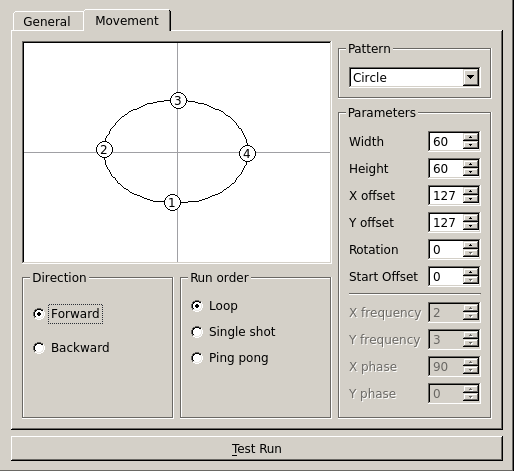
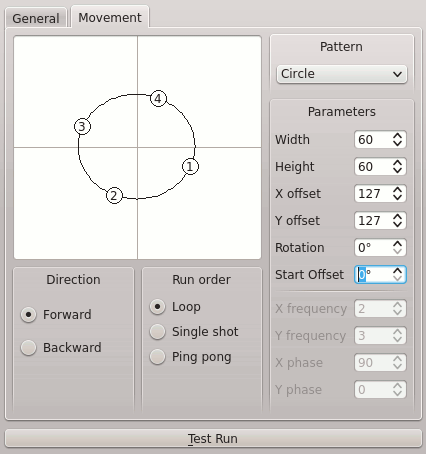
Docs: changed images installation path
Renewed EFX images with a modern look
Browser documentation font set to Arial
Q&A placed in a table

Changed region(s): [[0.0, 0.0, 1.0, 1.0], [0.2136, 0.37, 0.2441, 0.4009]]

diff --git a/docs/questionsandanswers.html b/docs/questionsandanswers.html
@@ -12,27 +12,43 @@
 In this page you will find the common questions that may come to your mind when starting with QLC+.<BR>
 Here you can find the direct answer or a help to point you in the right direction.<BR><BR>
 
-<B>Q:</B> QLC+ cannot detect my USB device<BR>
-<B>A:</B> QLC+ supports a wide variety of USB devices. First of all you should check if the physical connection
-is OK. Usually a LED on your device should indicate if it is powered up and working correctly.<BR>
-If you are using Windows and your device is manufactured by Peperoni or Velleman, please read the information on how to get
-them working directly on these help pages. For licensing issues they both need an extra DLL file to work.
-Please check <A HREF="peperonioutput.html">Peperoni output plugin</A> or <A HREF="vellemanoutput.html">Velleman output plugin</A><BR>
-If you're using Linux, please check if your distribution detected the device when plugged in. Basically the 
-"<CODE>dmesg</CODE>" command should tell you something.
-<BR>
-<BR>
-
-<B>Q:</B> I've got several <A HREF="vcbutton.html">buttons</A> in my Virtual Console. I need a way to disable the currently
-active button when I enable another one. How do I do that ?<br>
-<B>A:</B> Simply place your buttons inside a <A HREF="vcsoloframe.html">Solo Frame</A>. It does exactly that.
-<BR>
-<BR>
-
-<B>Q:</B> When I start EFX, all fixtures are at full intensity and I can't make them dimmer.<br>
-<B>A:</B> See <A HREF="file:efxeditor.html#efx-intensity">this note</A>.
-<BR>
-<BR>
+<TABLE BORDER=1 class="qlcTable">
+ <TR>
+  <TD><B>Q:</B></TD>
+  <TD>QLC+ cannot detect my USB device</TD>
+ </TR>
+ <TR>
+  <TD><B>A:</B></TD>
+  <TD>QLC+ supports a wide variety of USB devices. First of all you should check if the physical connection
+      is OK. Usually a LED on your device should indicate if it is powered up and working correctly.<BR>
+      If you are using Windows and your device is manufactured by Peperoni or Velleman, please read the information on how to get
+      them working directly on these help pages. For licensing issues they both need an extra DLL file to work.
+      Please check <A HREF="peperonioutput.html">Peperoni output plugin</A> or <A HREF="vellemanoutput.html">Velleman output plugin</A><BR>
+      If you're using Linux, please check if your distribution detected the device when plugged in. Basically the 
+      "<CODE>dmesg</CODE>" command should tell you something.
+  </TD>
+ </TR>
+ <TR></TR>
+ <TR>
+  <TD><B>Q:</B></TD>
+  <TD>I've got several <A HREF="vcbutton.html">buttons</A> in my Virtual Console. I need a way to disable the currently
+      active button when I enable another one. How do I do that ?
+  </TD>
+ </TR>
+ <TR>
+  <TD><B>A:</B></TD>
+  <TD>Simply place your buttons inside a <A HREF="vcsoloframe.html">Solo Frame</A>. It does exactly that.</TD>
+ </TR>
+ <TR></TR>
+ <TR>
+  <TD><B>Q:</B></TD>
+  <TD>When I start EFX, all fixtures are at full intensity and I can't make them dimmer.</TD>
+ </TR>
+ <TR>
+  <TD><B>A:</B></TD>
+  <TD>See <A HREF="file:efxeditor.html#efx-intensity">this note</A>.</TD>
+ </TR>
+</TABLE> 
 
 </BODY>
 </HTML>

diff --git a/docs/tutorial.html b/docs/tutorial.html
@@ -114,7 +114,7 @@ since we're quite happy with the fixture's information, we don't go there.
 </P>
 
 <p>
-<A HREF="file:tutorial1_1.png"><IMG SRC="file:tutorial1_1.png"></A>
+<IMG SRC="file:images/tutorial1_1.png">
 </P>
 
 <HR>
@@ -281,7 +281,7 @@ for channels 3, 4 and 6 to 0 and name the function "DJScan250 Zero".
 </B>
 </P>
 
-<p><A HREF="file:tutorial1_2.png"><IMG SRC="file:tutorial1_2.png"></A>
+<p><IMG SRC="file:images/tutorial1_2.png">
 </p>
 
 <HR>
@@ -436,7 +436,7 @@ from what is wanted. You need to stop the previous function by clicking its
 button once more (so that the button flashes and stays up) to stop the function
 and then start the other function.
 </P>
-<p><A HREF="file:tutorial1_3.png"><IMG SRC="file:tutorial1_3.png"></A></P>
+<IMG SRC="file:images/tutorial1_3.png"></P>
 
 </BODY>
 </HTML>

diff --git a/docs/efxeditor.html b/docs/efxeditor.html
@@ -20,7 +20,7 @@ The EFX editor, as its name suggests, is used to edit
 <H3>General Tab Controls</H3>
 
 <P>
-<IMG SRC="file:efx-general.png" />
+<IMG SRC="file:images/efx-general.png" />
 </P>
 
 <TABLE BORDER=1 class="qlcTable">
@@ -103,7 +103,7 @@ The EFX editor, as its name suggests, is used to edit
 <H3>Movement Tab Controls</H3>
 
 <P>
-<IMG SRC="file:efx-movement.png" />
+<IMG SRC="file:images/efx-movement.png" />
 </P>
 
 <TABLE BORDER=1 class="qlcTable">

diff --git a/docs/fixturesremap.html b/docs/fixturesremap.html
@@ -31,7 +31,7 @@ will be remapped to work on a new fixtures list.<br>
 <p>
 Let's now explain how to use the fixture remapping window, starting from a screenshot of
 a complete example:<br><br>
-<A HREF="file:fixremap.png"><IMG SRC="fixremap.png"></A>
+<IMG SRC="images/fixremap.png">
 <br><br>
 Following, a detailed explanation of each element of the remapping window.<br>
 <br>

diff --git a/docs/mainwindow.html b/docs/mainwindow.html
@@ -17,7 +17,7 @@
 </ol>
 </p>
 <p>
-<IMG SRC="file:mainwindow.png" align="absmiddle">
+<IMG SRC="file:images/mainwindow.png" align="absmiddle">
 </p>
 <P>
 Most controls throughout the software have tooltips, which pop up after

diff --git a/docs/style.css b/docs/style.css
@@ -1,3 +1,7 @@
+* {
+    font-family:Arial;
+}
+
 .qlcTable {
     margin:0px;
     padding:0px;
